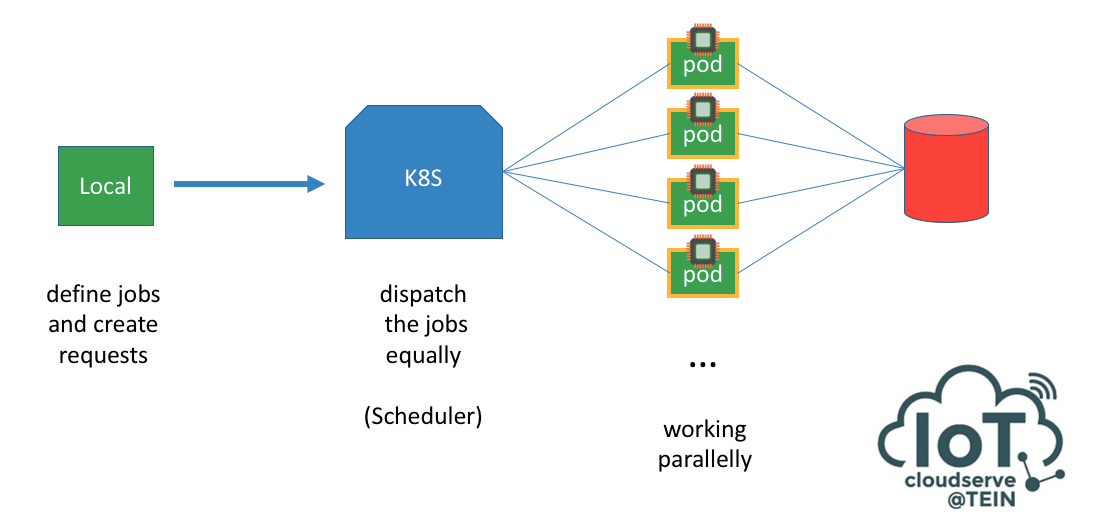
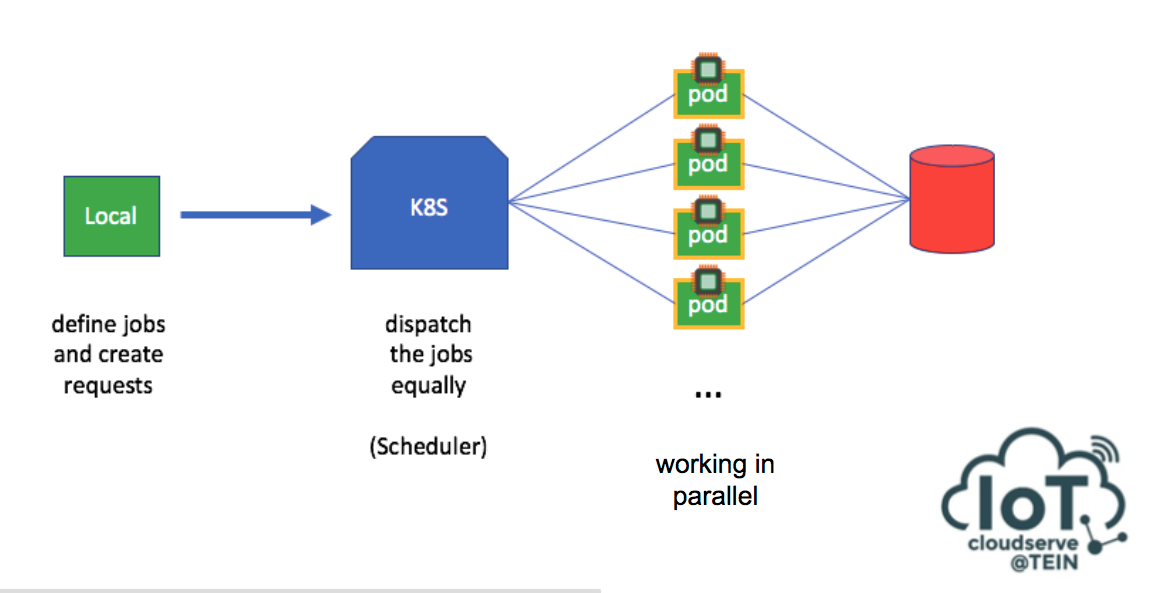
update design concept

diff --git a/Parallel computing running on Kubernetes/README.md b/Parallel computing running on Kubernetes/README.md
@@ -49,12 +49,10 @@ Demand Control: Centralized/Top Down => `Decentralized/Bottom Up (Self-Awareness
 
 Vendor Oriented (Dependency) => `User Oriented (Freedom)`
 
-## Design Concept - Working with mountains of data
-![Design Concept Parallel](assets/images/datawrangling.png "Design Concept")
+## Design Concept
 
-![Design Concept Parallel](assets/images/designconceptparallel.png "Design Concept")
+![Design Concept](assets/images/designconcept2.png "Design Concept")
 
-Ref: Data Wrangling with JavaScript Book by Ashley Davis
 
 ![Design Concept](assets/images/designconcept.png "Design Concept")
 
